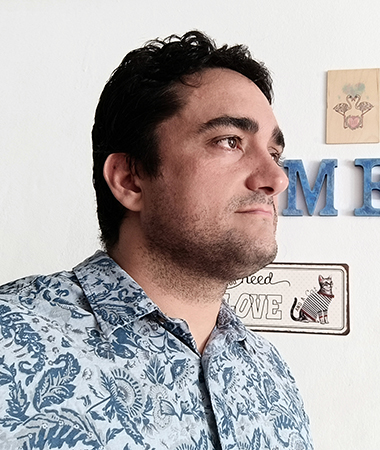
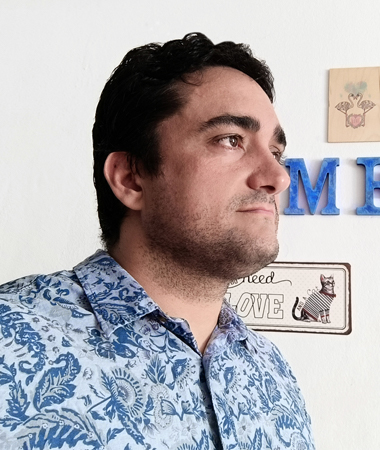
changes in img

diff --git a/app.css b/app.css
@@ -197,7 +197,7 @@ body {
 @media (max-width: 992px) {
   .homeHeader::after {
     width: 100%;
-    background: url("../../assets/img/adriano-diaz-benitez-backend-developer-home-2.jpg");
+    background: url("../../assets/img/adriano-diaz-benitez-backend-developer-home-2.png");
     height: calc(50vh - 7rem);
     clip-path: none;
   }

diff --git a/scss/components/_header.scss b/scss/components/_header.scss
@@ -17,7 +17,7 @@
 
     @include responsive(md) {
       width: 100%;
-      background: url("../../assets/img/adriano-diaz-benitez-backend-developer-home-2.jpg");
+      background: url("../../assets/img/adriano-diaz-benitez-backend-developer-home-2.png");
       height: calc(50vh - 7rem);
       clip-path: none;
     }
